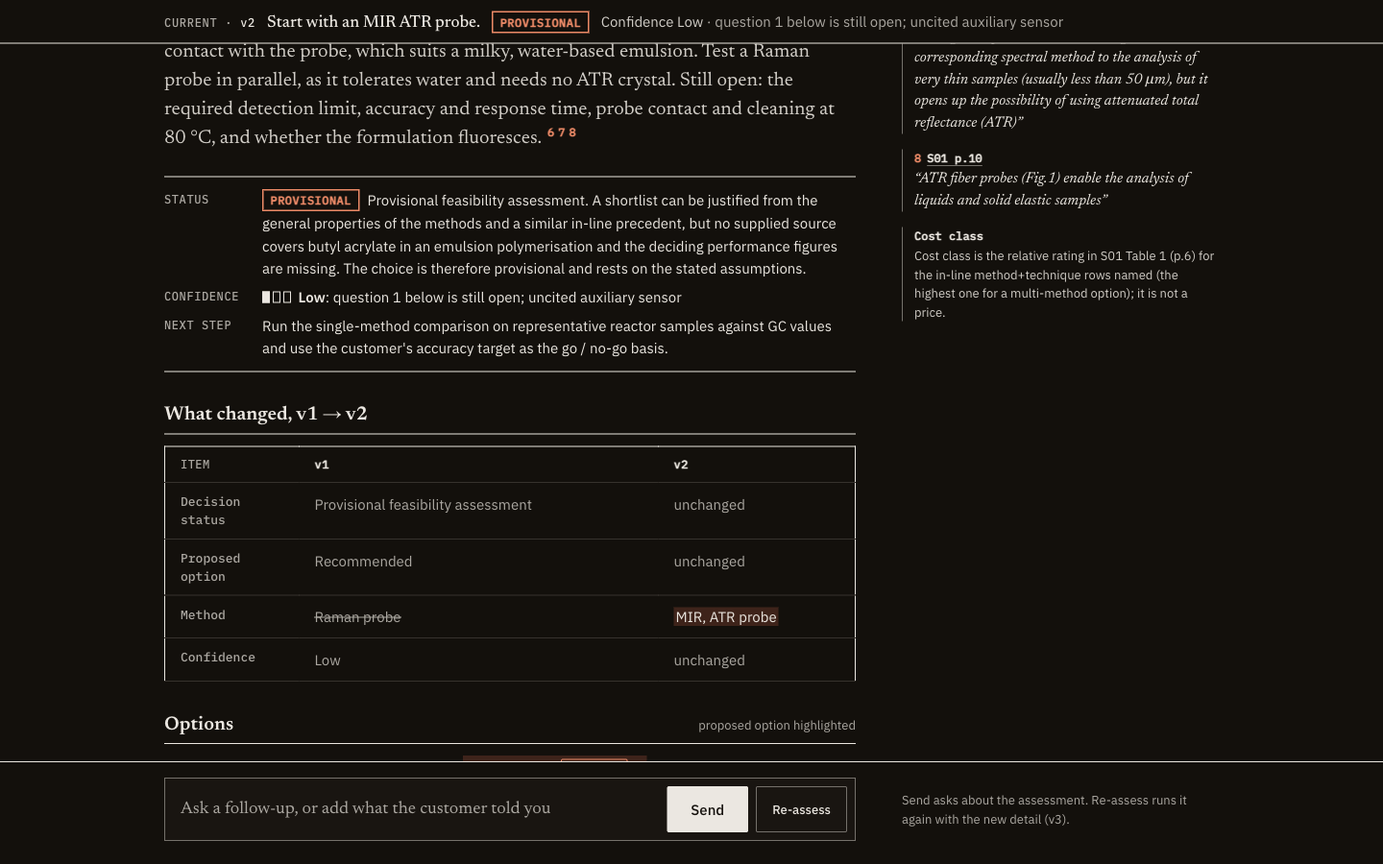
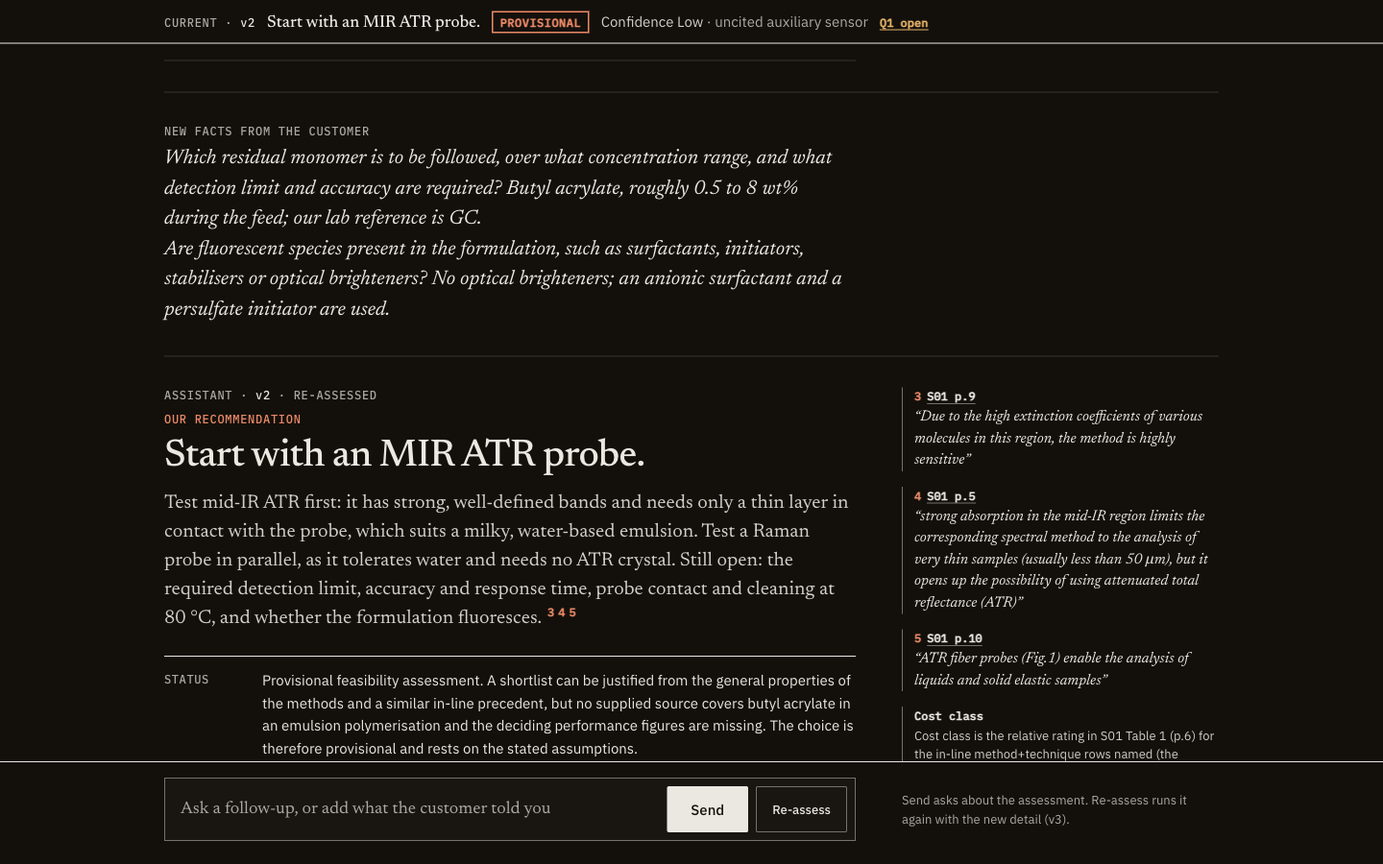
C1 Brief review fixes: margin markers, short pinned strip, open at latest turn
B1 margin notes mark a supplied quote that is not verified ("not verified",
link title as the old tag tooltip) and precedent-only citations (assessment
and answer notes).
B2 pinned strip uses a short form from view.pin_reasons ("Q1 open"), linked to
the current turn's Help us sharpen this block; also visible on phones.
B3 the conversation opens at its latest turn (no hash); earlier assessment
turns keep headline + What changed and fold the rest into a closed
"v{n} in full" row (no margin notes); the current turn stays in full.
Smooth scrolling respects prefers-reduced-motion.
Also: follow-up chips built from the run (view.follow_ups: why X not Y, setup
per other option, question 1, defaults), hidden while any job runs; composer
hint names another running job, re-enables after a failed/stopped job, short
hint on phones, aria-describedby; status row drops the duplicate
"Provisional" stamp; aria-live on note context; Newsreader 400 preloaded.
Tests: pinned strip, multi-turn unique ids + fold, unverified marker,
cite.html HX-Target id, chips/composer while busy. Screenshots refreshed
(fake client, saved runs, no paid calls).

Changed region(s): [[0.125, 0.0, 0.75, 0.9022], [0.6562, 0.4356, 0.875, 0.9022], [0.6562, 0.0622, 0.875, 0.3733]]

diff --git a/src/afs_assistant/ui/templates/conversation.html b/src/afs_assistant/ui/templates/conversation.html
@@ -1,5 +1,5 @@
 {% extends "base.html" %}
-{% from "macros.html" import flag, meter, stamp, question_block %}
+{% from "macros.html" import flag, meter, stamp, question_block, tags %}
 {% import "blocks.html" as blocks with context %}
 {% block title %}{{ current.title if current else 'Conversation' }} · AFS Spectroscopy Assistant{% endblock %}
 {% block body_class %}has-composer{% endblock %}
@@ -15,13 +15,16 @@
 {% endif %}{% endblock %}
 
 {# Pinned strip: the current recommendation, always in view; it follows the latest assessment. #}
-{% block pinned %}{% if current %}{% set rec = current.recommendation %}
+{% block pinned %}{% if current %}{% set rec = current.recommendation %}{% set cur = turns | selectattr('current') | first %}
 <div class="pinned" role="region" aria-label="Current recommendation">
   <p class="pinned-in">
     <span class="pin-v">Current · <span class="pin-n">v{{ turns | rejectattr('kind', 'equalto', 'ask') | list | length }}</span></span>
     <b class="pin-head">{{ rec.headline }}</b>
     {{ stamp(current.status) }}
-    {% if rec.confidence %}<span class="pin-conf">Confidence {{ rec.confidence.level }}{% if rec.confidence.plain %} <span class="muted">· {{ rec.confidence.plain | join('; ') }}</span>{% endif %}</span>{% endif %}
+    {% if rec.confidence %}{% set pin = rec.confidence.pin or [] %}{% set other = pin | rejectattr('open') | map(attribute='text') | list %}
+    <span class="pin-conf">Confidence {{ rec.confidence.level }}{% if other %} <span class="muted">· {{ other | join('; ') }}</span>{% endif %}</span>
+    {% for r in pin | selectattr('open') %}{% if cur and current.top_questions %}<a class="pin-q" href="#{{ cur.p }}sharpen" title="Open questions under Help us sharpen this">{{ r.text }}</a>{% else %}<span class="pin-q">{{ r.text }}</span>{% endif %}{% endfor %}
+    {% endif %}
   </p>
 </div>
 {% endif %}{% endblock %}
@@ -54,19 +57,33 @@
       {% elif v.incomplete %}
         <section class="rec" aria-label="Incomplete run"><h2 class="kicker">Incomplete run</h2><p class="rec-head">{{ v.incomplete }}</p></section>
       {% else %}
+        {# The current assessment is shown in full; an earlier one keeps its headline and What changed, and
+           folds the rest into a closed row, so the thread reads as a conversation, not stacked reports. #}
         {% set rec = v.recommendation %}
         {% set ext = rec.external_support or [] %}
-        <section class="rec" aria-labelledby="{{ t.p }}rec-title">
-          <h2 class="kicker kicker-accent">Our recommendation</h2>
-          <h3 id="{{ t.p }}rec-title" class="verdict">{{ rec.headline }}</h3>
-          <p class="dek">{{ rec.text }} {{ flag(rec.flag) }}{% if rec.cites or ext %}<sup class="refs">{% for cid in rec.cites + ext %}<a class="ref" href="#{{ t.p }}n{{ ns.ref + loop.index }}" data-ref="{{ t.p }}n{{ ns.ref + loop.index }}" aria-label="source {{ ns.ref + loop.index }}">{{ ns.ref + loop.index }}</a>{% endfor %}</sup>{% endif %}</p>
+        {% set status_dl %}
           <dl class="status-dl">
-            <dt>Status</dt><dd>{{ stamp(v.status) }}{{ v.status.label }}{% if v.status.reason %}. {{ v.status.reason }}{% endif %} {{ flag(v.status.flag) }}{% if v.still_open %} <span class="flag"><span aria-hidden="true">&#x26A0;&#xFE0E;</span> {{ v.still_open | length }} check(s) still open</span>{% endif %}</dd>
+            <dt>Status</dt><dd>{{ v.status.label }}{% if v.status.reason %}. {{ v.status.reason }}{% endif %} {{ flag(v.status.flag) }}{% if v.still_open %} <span class="flag"><span aria-hidden="true">&#x26A0;&#xFE0E;</span> {{ v.still_open | length }} check(s) still open</span>{% endif %}</dd>
             {% if rec.confidence %}<dt>Confidence</dt><dd>{{ meter(rec.confidence.level) }} <strong>{{ rec.confidence.level }}</strong>{% if rec.confidence.plain %}: {{ rec.confidence.plain | join('; ') }}{% endif %}</dd>{% endif %}
             <dt>Next step</dt><dd>{{ v.proposal.next_step }} {{ flag(v.proposal.flags.next) }}</dd>
           </dl>
+        {% endset %}
+        <section class="rec" aria-labelledby="{{ t.p }}rec-title">
+          <h2 class="kicker kicker-accent">{{ 'Our recommendation' if t.current else 'Earlier recommendation' }}</h2>
+          <h3 id="{{ t.p }}rec-title" class="verdict">{{ rec.headline }}</h3>
+          {% if t.current %}
+          <p class="dek">{{ rec.text }} {{ flag(rec.flag) }}{% if rec.cites or ext %}<sup class="refs">{% for cid in rec.cites + ext %}<a class="ref" href="#{{ t.p }}n{{ ns.ref + loop.index }}" data-ref="{{ t.p }}n{{ ns.ref + loop.index }}" aria-label="source {{ ns.ref + loop.index }}">{{ ns.ref + loop.index }}</a>{% endfor %}</sup>{% endif %}</p>
+          {{ status_dl }}
+          {% endif %}
         </section>
         {% if t.changed %}{{ blocks.changed_rows(t.changed, t.p, 'v' ~ (ns.ver - 1), 'v' ~ ns.ver) }}{% endif %}
+        {% if not t.current %}
+        <details class="row turn-full">
+          <summary><span class="row-t">v{{ ns.ver }} in full</span><span class="row-n mono">a later version replaces it</span></summary>
+          <div class="row-body">
+          <p class="dek">{{ rec.text }} {{ flag(rec.flag) }} {{ tags(v, rec.cites + ext) }}</p>
+          {{ status_dl }}
+        {% endif %}
         {% if v.options %}{{ blocks.options_table(v, t.p) }}{{ blocks.setup_block(v, t.p) }}{% endif %}
         {{ blocks.questions(v, ('/chat/' ~ cid ~ '/reassess') if t.current else none, t.p) }}
         <section class="more" aria-label="More detail">
@@ -82,16 +99,17 @@
             <div class="row-body">{{ blocks.status(v) }}</div></details>
         </section>
         <p class="full-link"><a href="/runs/{{ v.key }}">Open the full answer</a> <span class="muted">(literature, how it was made, technical detail, downloads)</span></p>
-        {% if last and current %}{{ blocks.follow_chips() }}{% endif %}
+        {% if not t.current %}</div></details>{% endif %}
+        {% if last and current %}{{ blocks.follow_chips(chips) }}{% endif %}
       {% endif %}
       </div>
-      {% if v and not v.off_topic and not v.incomplete %}
+      {% if v and not v.off_topic and not v.incomplete and t.current %}
       <aside class="t-side" aria-label="Sources beside this answer">
         {% for cid in rec.cites + ext %}{% set c = v.citations[cid] %}{% set k = ns.ref + loop.index %}
         <div class="mnote{{ ' mnote-sec' if c.kind == 'external' }}" id="{{ t.p }}n{{ k }}">
-          <p class="mnote-src"><b>{{ k }}</b><a href="/runs/{{ v.key }}/cite/{{ cid }}" hx-get="/runs/{{ v.key }}/cite/{{ cid }}" hx-target="#{{ t.p }}n{{ k }}-ctx" hx-swap="innerHTML" data-note aria-expanded="false" aria-controls="{{ t.p }}n{{ k }}-ctx" title="Show the quote in its page and the check result">{{ c.label }}</a>{% if c.kind == 'external' %} <span class="ext-note">external, not AFS material</span>{% endif %}</p>
+          <p class="mnote-src"><b>{{ k }}</b><a href="/runs/{{ v.key }}/cite/{{ cid }}" hx-get="/runs/{{ v.key }}/cite/{{ cid }}" hx-target="#{{ t.p }}n{{ k }}-ctx" hx-swap="innerHTML" data-note aria-expanded="false" aria-controls="{{ t.p }}n{{ k }}-ctx" title="{{ 'Not verified: show' if c.kind == 'supplied' and not c.verified else 'Show' }} the quote in its page and the check result">{{ c.label }}</a>{% if c.kind == 'external' %} <span class="ext-note">external, not AFS material</span>{% endif %}{% if c.kind == 'supplied' and not c.verified %} <span class="mnote-mark flag">not verified</span>{% endif %}{% if c.precedent %} <span class="mnote-mark precedent">precedent only</span>{% endif %}</p>
           {% if c.kind == 'table' %}<span>{{ v.cost_note }}</span>{% else %}<q>{{ c.quote }}</q>{% endif %}
-          <div class="mnote-ctx" id="{{ t.p }}n{{ k }}-ctx"></div>
+          <div class="mnote-ctx" id="{{ t.p }}n{{ k }}-ctx" aria-live="polite"></div>
         </div>
         {% endfor %}
         {% set best = v.options | selectattr('is_best') | first %}
@@ -137,15 +155,15 @@
           {% endif %}
           {% endif %}
         </section>
-        {% if last and current %}{{ blocks.follow_chips() }}{% endif %}
+        {% if last and current %}{{ blocks.follow_chips(chips) }}{% endif %}
       </div>
       {% set cn = namespace(k=ns.ref) %}
       <aside class="t-side" aria-label="Sources beside this answer">
         {% for c in t.answer.claims %}{% set ci = loop.index0 %}{% for x in c.citations %}{% set cn.k = cn.k + 1 %}{% set url = '/chat/' ~ cid ~ '/turns/' ~ t.n ~ '/cite/' ~ ci ~ '-' ~ loop.index0 %}
         <div class="mnote{{ ' mnote-sec' if x.kind == 'external' }}" id="{{ t.p }}n{{ cn.k }}">
-          <p class="mnote-src"><b>{{ cn.k }}</b><a href="{{ url }}" hx-get="{{ url }}" hx-target="#{{ t.p }}n{{ cn.k }}-ctx" hx-swap="innerHTML" data-note aria-expanded="false" aria-controls="{{ t.p }}n{{ cn.k }}-ctx" title="Show the quote in its page and the check result">{{ x.label }}</a>{% if x.kind == 'external' %} <span class="ext-note">external, not AFS material</span>{% endif %}</p>
+          <p class="mnote-src"><b>{{ cn.k }}</b><a href="{{ url }}" hx-get="{{ url }}" hx-target="#{{ t.p }}n{{ cn.k }}-ctx" hx-swap="innerHTML" data-note aria-expanded="false" aria-controls="{{ t.p }}n{{ cn.k }}-ctx" title="Show the quote in its page and the check result">{{ x.label }}</a>{% if x.kind == 'external' %} <span class="ext-note">external, not AFS material</span>{% endif %}{% if x.precedent %} <span class="mnote-mark precedent">precedent only</span>{% endif %}</p>
           <q>{{ x.quote }}</q>
-          <div class="mnote-ctx" id="{{ t.p }}n{{ cn.k }}-ctx"></div>
+          <div class="mnote-ctx" id="{{ t.p }}n{{ cn.k }}-ctx" aria-live="polite"></div>
         </div>
         {% endfor %}{% endfor %}
       </aside>
@@ -175,11 +193,11 @@
   <div class="composer-grid">
     <form class="composer-in" method="post" action="/chat/{{ cid }}/message">
       <label for="ask" class="sr-only">{{ 'Ask a follow-up question' if current else 'Describe what you want to measure' }}</label>
-      <input id="ask" name="text" type="text" autocomplete="off" maxlength="{{ MAX_CHARS }}" placeholder="{{ 'Ask a follow-up, or add what the customer told you' if current else 'Describe what you want to measure' }}"{% if busy or job %} disabled{% endif %}>
+      <input id="ask" name="text" type="text" autocomplete="off" maxlength="{{ MAX_CHARS }}" aria-describedby="composer-hint" placeholder="{{ 'Ask a follow-up, or add what the customer told you' if current else 'Describe what you want to measure' }}"{% if busy or job %} disabled{% endif %}>
       <button class="btn" type="submit"{% if busy or job %} disabled{% endif %}>Send</button>
       {% if current %}<button class="btn-quiet" type="submit" formaction="/chat/{{ cid }}/reassess" title="Run the full assessment again with this detail added"{% if busy or job %} disabled{% endif %}>Re-assess</button>{% endif %}
     </form>
-    <p class="composer-hint">{% if current %}Send asks about the assessment. Re-assess runs it again with the new detail (v{{ turns | rejectattr('kind', 'equalto', 'ask') | list | length + 1 }}).{% else %}Send starts an assessment.{% endif %}</p>
+    <p class="composer-hint" id="composer-hint" aria-live="polite">{% if busy and not job %}Another question is being assessed. <a href="/jobs/{{ busy.id }}">Follow it</a>; you can send when it is done.{% elif job %}Working on this question; you can send when it is done.{% elif current %}<span class="hint-long">Send asks about the assessment. Re-assess runs it again with the new detail (v{{ turns | rejectattr('kind', 'equalto', 'ask') | list | length + 1 }}).</span><span class="hint-short">Send asks · Re-assess runs v{{ turns | rejectattr('kind', 'equalto', 'ask') | list | length + 1 }}</span>{% else %}Send starts an assessment.{% endif %}</p>
   </div>
 </div>
 {% endblock %}

diff --git a/src/afs_assistant/ui/static/app.css b/src/afs_assistant/ui/static/app.css
@@ -166,6 +166,7 @@ a:hover { text-decoration-thickness: 2px; }
 .pin-head { font: 500 1.0625rem/1.3 var(--font-serif); }
 .pin-conf { color: var(--color-ink-2); min-width: 0; }
 .pin-conf .muted { overflow-wrap: anywhere; }
+.pin-q { font: 600 var(--text-xs)/1.4 var(--font-mono); color: var(--color-warn); white-space: nowrap; text-underline-offset: 3px; }
 .stamp { display: inline-block; font: 600 var(--text-xs)/1 var(--font-mono); letter-spacing: 0.04em; text-transform: uppercase; color: var(--color-accent);
   border: 1.5px solid var(--color-accent); padding: 4px 7px; white-space: nowrap; vertical-align: 0.1em; }
 
@@ -461,6 +462,7 @@ svg.fig .sp-value { font-size: 12px; fill: var(--color-muted); }
 .mnote q { font: italic 400 0.96875rem/1.45 var(--font-serif); color: var(--color-ink); quotes: "“" "”"; }
 .mnote-sec { border-left-style: dashed; }
 .mnote-sec .mnote-src .ext-note { margin-left: 4px; }
+.mnote-src .mnote-mark { font: 400 var(--text-xs)/1.5 var(--font-mono); white-space: nowrap; }
 .mnote.is-open { border-left: 2px solid var(--color-accent); background: var(--color-paper-2); padding: var(--space-3); }
 .mnote-ctx:empty { display: none; }
 .mnote-ctx { margin-top: var(--space-2); }
@@ -484,6 +486,7 @@ svg.fig .sp-value { font-size: 12px; fill: var(--color-muted); }
 .composer-grid .composer-in input:focus-visible { outline: none; }
 .composer-in .btn, .composer-in .btn-quiet { min-height: 48px; }
 .composer-hint { margin: 0; font-size: var(--text-sm); color: var(--color-muted); }
+.hint-short { display: none; }
 
 /* ---------------------------------------------------------------- conversation answers */
 .chat-answer > * + * { margin-top: var(--space-4); }
@@ -543,7 +546,9 @@ svg.fig .sp-value { font-size: 12px; fill: var(--color-muted); }
   .t-ai > .t-side { order: 2; }
   .mnote q { display: -webkit-box; -webkit-line-clamp: 3; -webkit-box-orient: vertical; overflow: hidden; }
   .mnote.is-open q { display: inline; -webkit-line-clamp: unset; }
-  .composer-hint { display: none; }
+  .composer-hint { font-size: var(--text-xs); margin-top: var(--space-1); }
+  .hint-long { display: none; }
+  .hint-short { display: inline; }
   .start-side { padding-top: var(--space-5); }
   .mast-meta, .js .present-toggle { display: none; }
 }

diff --git a/src/afs_assistant/ui/static/app.js b/src/afs_assistant/ui/static/app.js
@@ -53,7 +53,19 @@
     });
   }
 
+  // Scrolling is instant when the person asks for reduced motion.
+  function scrollBehavior() {
+    return window.matchMedia && window.matchMedia("(prefers-reduced-motion: reduce)").matches ? "auto" : "smooth";
+  }
+
   document.addEventListener("DOMContentLoaded", function () {
+    // A conversation opens at its latest turn (a link to a part of the page keeps its own target).
+    var thread = document.querySelector(".conversation");
+    if (thread && !window.location.hash) {
+      var turns = thread.querySelectorAll(".chat-turn");
+      if (turns.length > 1) turns[turns.length - 1].scrollIntoView({ block: "start", behavior: "auto" });
+    }
+
     var toggle = document.getElementById("theme-toggle");
     if (toggle) toggle.addEventListener("click", function () {
       var next = effectiveTheme() === "dark" ? "light" : "dark";
@@ -145,8 +157,19 @@
       if (said) said.classList.add("is-active");
       var link = note.querySelector("a[data-note]");
       if (link && !note.classList.contains("is-open")) link.click();
-      note.scrollIntoView({ block: "nearest", behavior: "smooth" });
+      note.scrollIntoView({ block: "nearest", behavior: scrollBehavior() });
       if (link) link.focus({ preventScroll: true });
+    });
+
+    // A job in this conversation that failed or was stopped (polling ended without a redirect): the composer
+    // takes input again; the error stays visible in the step list.
+    document.body.addEventListener("htmx:afterSettle", function () {
+      var steps = document.getElementById("job-steps");
+      var composer = document.querySelector(".composer");
+      if (!steps || !composer || steps.hasAttribute("hx-get")) return;
+      composer.querySelectorAll("input[disabled], button[disabled]").forEach(function (el) { el.disabled = false; });
+      var hint = document.getElementById("composer-hint");
+      if (hint) hint.textContent = "This question did not finish. You can send it again.";
     });
 
     // Suggested follow-ups fill the composer; the person still sends.

diff --git a/src/afs_assistant/ui/templates/blocks.html b/src/afs_assistant/ui/templates/blocks.html
@@ -183,11 +183,12 @@
 </dl>
 {%- endmacro %}
 
-{# Suggested follow-ups: generic questions that fill the composer (an enhancement; hidden without script). #}
-{% macro follow_chips() -%}
-{% if not busy %}
+{# Suggested follow-ups built from the current run (view.follow_ups); they fill the composer (an enhancement;
+   hidden without script and while any job runs). #}
+{% macro follow_chips(chips) -%}
+{% if chips and not busy %}
 <div class="chips chips-follow" role="group" aria-label="Suggested follow-ups">
-  {% for s in ['Why this method and not another?', 'What are the main risks?', 'What would the first test look like?', 'Compare the options'] %}
+  {% for s in chips %}
   <button type="button" class="chip" data-ask="{{ s }}">{{ s }}</button>
   {% endfor %}
 </div>

diff --git a/src/afs_assistant/ui/templates/base.html b/src/afs_assistant/ui/templates/base.html
@@ -13,6 +13,7 @@
   document.documentElement.classList.add("js");
 </script>
 <link rel="preload" href="{{ url_for('static', path='fonts/ibm-plex-sans-latin-400-normal.woff2') }}" as="font" type="font/woff2" crossorigin>
+<link rel="preload" href="{{ url_for('static', path='fonts/newsreader-latin-400-normal.woff2') }}" as="font" type="font/woff2" crossorigin>
 <link rel="stylesheet" href="{{ url_for('static', path='app.css') }}">
 <script src="{{ url_for('static', path='vendor/htmx-2.0.4.min.js') }}" defer></script>
 <script src="{{ url_for('static', path='app.js') }}" defer></script>

diff --git a/tests/test_chat_ui.py b/tests/test_chat_ui.py
@@ -9,7 +9,7 @@ import threading
 import time
 
 import pytest
-from test_chat import NIR_QUOTE, claim, reply, scit
+from test_chat import NIR_QUOTE, claim, reply, run, scit  # noqa: F401
 from test_phase2 import ASSESSMENT, ENQUIRY, INTAKE
 from test_ui import BASE, DEV, HX, SAVED, app_client, no_provenance, outputs, wait_job  # noqa: F401
 
@@ -289,3 +289,98 @@ def test_chat_start_leaves_no_conversation_when_the_job_cannot_start(outputs, mo
     monkeypatch.setattr(app.state.jobs, "start", busy)
     assert client.post("/chat", data={"enquiry": ENQUIRY}).status_code == 409
     assert not list(chat.conversations_dir(outputs / "ui").glob("*.json"))
+
+
+# --------------------------------------------------------------------------------- C1 Brief review fixes
+def copy_run(root, stem, **changes) -> str:
+    """A copy of the saved fixture run under another name (optionally changed); returns its run id."""
+    data = json.loads((root / "dev" / f"{SAVED}.json").read_text(encoding="utf-8"))
+    (root / "dev" / f"{stem}.json").write_text(json.dumps(dict(data, **changes)), encoding="utf-8")
+    return f"dev-{stem}"
+
+
+def pinned(page: str) -> str:
+    return page[page.index('class="pinned"'):page.index('<div class="frame">')] if 'class="pinned"' in page else ""
+
+
+def test_pinned_strip_is_short_and_links_the_open_question(outputs):  # noqa: F811
+    client, app = app_client(outputs)
+    page = client.get(f"/chat/{seeded(client)}").text
+    strip = pinned(page)
+    assert strip and '<a class="pin-q" href="#t0-sharpen"' in strip and "Q1 open" in strip
+    assert "below" not in strip and 'id="t0-sharpen"' in page
+    assert pinned(client.get(f"/chat/{seeded(client, 'dev-X90')}").text) == ""     # off topic: nothing pinned
+    empty = chat.new_conversation(app.state.jobs.out_dir)
+    assert pinned(client.get(f"/chat/{empty['id']}").text) == ""
+
+
+def test_pin_reasons_and_follow_ups_are_built_from_the_view(run):  # noqa: F811
+    from afs_assistant.ui import view
+    assert view.pin_reasons(["open question: Q4, Q2", "other reason"], ["Q2", "Q4"]) == [
+        {"text": "Q2, Q1 open", "open": True}, {"text": "other reason", "open": False}]
+    _, v = run
+    chips = view.follow_ups(v)
+    best = next(o for o in v["options"] if o["is_best"])
+    others = [o for o in v["options"] if not o["is_best"]]
+    assert len(chips) <= 4 and chips[0].startswith(f"Why {best['short']} and not ")
+    assert f"Show the setup for the {others[0]['tab']} option" in chips
+    assert view.follow_ups({}) == list(view.FOLLOW_DEFAULTS)
+
+
+def test_multi_turn_page_folds_earlier_turns_and_keeps_ids_unique(outputs):  # noqa: F811
+    client, app = app_client(outputs, chat_factory())
+    live, later = app.state.jobs.out_dir, copy_run(outputs, "Y03")
+    cid = seeded(client)
+    post(client, f"/chat/{cid}/message", {"text": QUESTION})
+    assert wait_job(client, last_job(app))["state"] == "done"
+    chat.append(live, cid, {"kind": "reassess", "question": FACT, "run_id": later})
+    page = client.get(f"/chat/{cid}").text
+    assert page.count('<details class="row turn-full">') == 1 and "v1 in full" in page
+    assert "Earlier recommendation" in page and page.count("Our recommendation") == 1
+    assert 'id="t0-n' not in page and 'id="t1-n1"' in page and 'id="t2-n2"' in page   # no notes beside v1
+    assert page.count('class="sharpen-form"') == 1 and f'action="/chat/{cid}/reassess" class="sharpen-form"' in page
+    assert "Show the setup for the Simple option" in page                        # chips from the current run
+    ids = re.findall(r'\bid="([^"]+)"', re.sub(r"<svg.*?</svg>", "", page, flags=re.DOTALL))
+    assert len(ids) == len(set(ids)), [i for i in ids if ids.count(i) > 1][:5]
+
+
+def test_unverified_quote_is_marked_in_the_margin(outputs):  # noqa: F811
+    data = json.loads((outputs / "dev" / f"{SAVED}.json").read_text(encoding="utf-8"))
+    ver = dict(data["verification"], citations=[dict(c, verified=False) for c in data["verification"]["citations"]])
+    client, _ = app_client(outputs)
+    marker = '<span class="mnote-mark flag">not verified</span>'
+    assert marker not in client.get(f"/chat/{seeded(client)}").text
+    page = client.get(f"/chat/{seeded(client, copy_run(outputs, 'Y02', verification=ver))}").text
+    side = page[page.index('<aside class="t-side"'):]
+    assert marker in side and "Not verified: show the quote" in side
+
+
+def test_cite_fragment_takes_the_panel_id_only_in_the_panel(outputs):  # noqa: F811
+    client, _ = app_client(outputs)
+    url = f"/runs/dev-{SAVED}/cite/s1"
+    note = client.get(url, headers={**HX, "HX-Target": "t0-n1-ctx"}).text
+    panel = client.get(url, headers={**HX, "HX-Target": "panel-body"}).text
+    assert 'id="panel-title"' not in note and 'class="cite-title"' in note
+    assert 'id="panel-title"' in panel and 'id="panel-title"' in client.get(url).text
+
+
+def test_chips_and_composer_wait_while_another_job_runs(outputs):  # noqa: F811
+    gate = threading.Event()
+
+    class Slow(FakeClient):
+        def complete_json(self, role, *args, **kwargs):
+            gate.wait(10)
+            return super().complete_json(role, *args, **kwargs)
+
+    client, app = app_client(outputs, chat_factory(cls=Slow))
+    mine, other = seeded(client), seeded(client)
+    page = client.get(f"/chat/{mine}").text
+    assert "chips-follow" in page and "Another question is being assessed" not in page
+    post(client, f"/chat/{other}/message", {"text": QUESTION})
+    page = client.get(f"/chat/{mine}").text
+    composer = page[page.index('<div class="composer">'):]
+    assert "chips-follow" not in page and "Another question is being assessed" in composer
+    assert composer.count(" disabled") == 3 and f'href="/jobs/{last_job(app)}"' in composer
+    gate.set()
+    assert wait_job(client, last_job(app))["state"] == "done"
+    assert "chips-follow" in client.get(f"/chat/{mine}").text

diff --git a/src/afs_assistant/ui/view.py b/src/afs_assistant/ui/view.py
@@ -126,6 +126,41 @@ def plain_reasons(reasons: list[str], top_ids: list[str]) -> list[str]:
     return out
 
 
+def pin_reasons(reasons: list[str], top_ids: list[str]) -> list[dict]:
+    """The pinned strip's short form of the confidence reasons: an open question reads 'Q1 open' (`open`: the
+    strip links it to the current turn's questions); other reasons stay as they are."""
+    out = []
+    for r in reasons:
+        m = _OPEN_Q.match(r)
+        if not m:
+            out.append({"text": r, "open": False})
+            continue
+        nums = [f"Q{top_ids.index(q) + 1}" if q in top_ids else q for q in m.group("ids").split(", ")]
+        out.append({"text": ", ".join(nums) + " open", "open": True})
+    return out
+
+
+FOLLOW_DEFAULTS = ("What are the main risks?", "What would the first test look like?")
+
+
+def follow_ups(v: dict, limit: int = 4) -> list[str]:
+    """Suggested follow-up questions built from the run's own options and questions (generic wording)."""
+    opts = v.get("options") or []
+    best = next((o for o in opts if o["is_best"]), None)
+    others = [o for o in opts if o is not best]
+    out = []
+    differing = [o for o in others if best and o["short"] != best["short"]]
+    disjoint = [o for o in differing if not set(o["short"].split(" + ")) & set(best["short"].split(" + "))]
+    alt = (disjoint or differing or [None])[0]
+    if alt:
+        out.append(f"Why {best['short']} and not {alt['short']}?")
+    out += [f"Show the setup for the {o['tab']} option" for o in others]
+    if v.get("top_questions"):
+        out.append("How would the answer to question 1 change the recommendation?")
+    out += [s for s in FOLLOW_DEFAULTS if s not in out]
+    return out[:limit]
+
+
 def headline(a: Assessment, option) -> str:
     """One sentence naming method and probe of the proposed option (code wording, not model text)."""
     if option is None:
@@ -313,9 +348,10 @@ def build(data: dict, markdown: str = "", key: str = "") -> dict:
         narrow_svg, narrow_notes = diagrams.setup(drawn, o, slots, NARROW)
         options.append({
             "id": o.id, "tier": o.tier, "tier_label": TIER_LABEL[o.tier], "tab": o.tier.capitalize(),
-            "tab_sub": f"{short} · {TAB_SUB.get(o.tier, '')}".rstrip(" ·"), "is_best": o is best,
+            "tab_sub": f"{short} · {TAB_SUB.get(o.tier, '')}".rstrip(" ·"), "is_best": o is best, "short": short,
             "methods": methods, "confidence": {"level": c.get("level", ""), "reasons": c.get("reasons", []),
-                                               "plain": plain_reasons(c.get("reasons", []), top_ids)},
+                                               "plain": plain_reasons(c.get("reasons", []), top_ids),
+                                               "pin": pin_reasons(c.get("reasons", []), top_ids)},
             "cost": {"label": cost.get("label", ""), "class": cost.get("cost_class", ""), "cites": reg.table(cost)},
             "ease": words(o.ease_of_use), "maintenance": words(o.maintenance),
             "performance_fit": words(o.performance_fit), "parameters": list(o.parameter_ids),

diff --git a/src/afs_assistant/ui/server.py b/src/afs_assistant/ui/server.py
@@ -576,9 +576,10 @@ def create_app(outputs: Path = paths.OUTPUTS, client_factory=_default_client, ex
         conv = _conversation(cid)
         busy = jobs.running()
         mine = busy if busy is not None and busy.conversation == cid else None
+        current = _usable(chat.current_run(conv))
         return page(request, "conversation.html", conv=conv, turns=_thread(conv), cid=cid,
-                    job=mine.snapshot() if mine else None, poll=POLL_SECONDS,
-                    current=_usable(chat.current_run(conv)))
+                    job=mine.snapshot() if mine else None, poll=POLL_SECONDS, current=current,
+                    chips=view.follow_ups(current) if current else [])
 
     @app.post("/chat/{cid}/message")
     def chat_message(request: Request, cid: str, text: str = Form("")):
